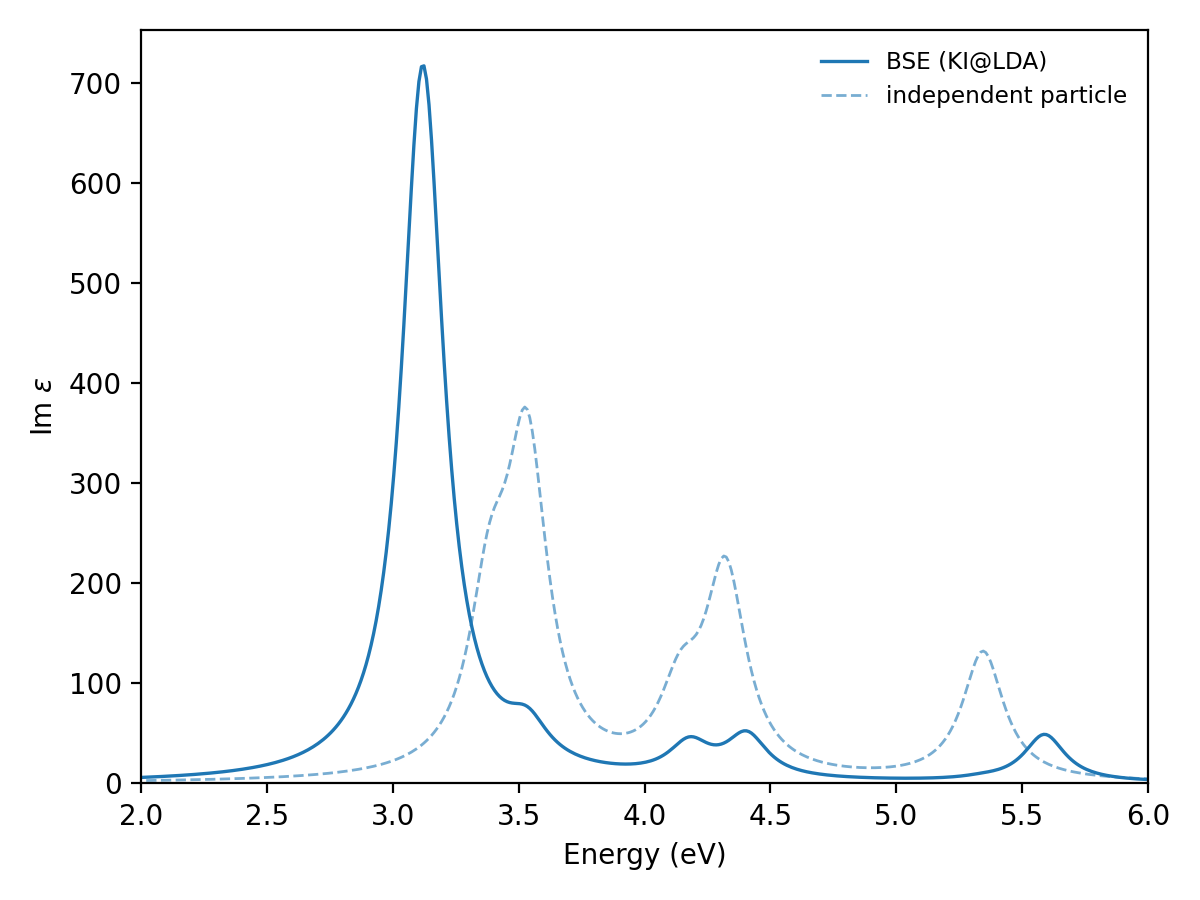
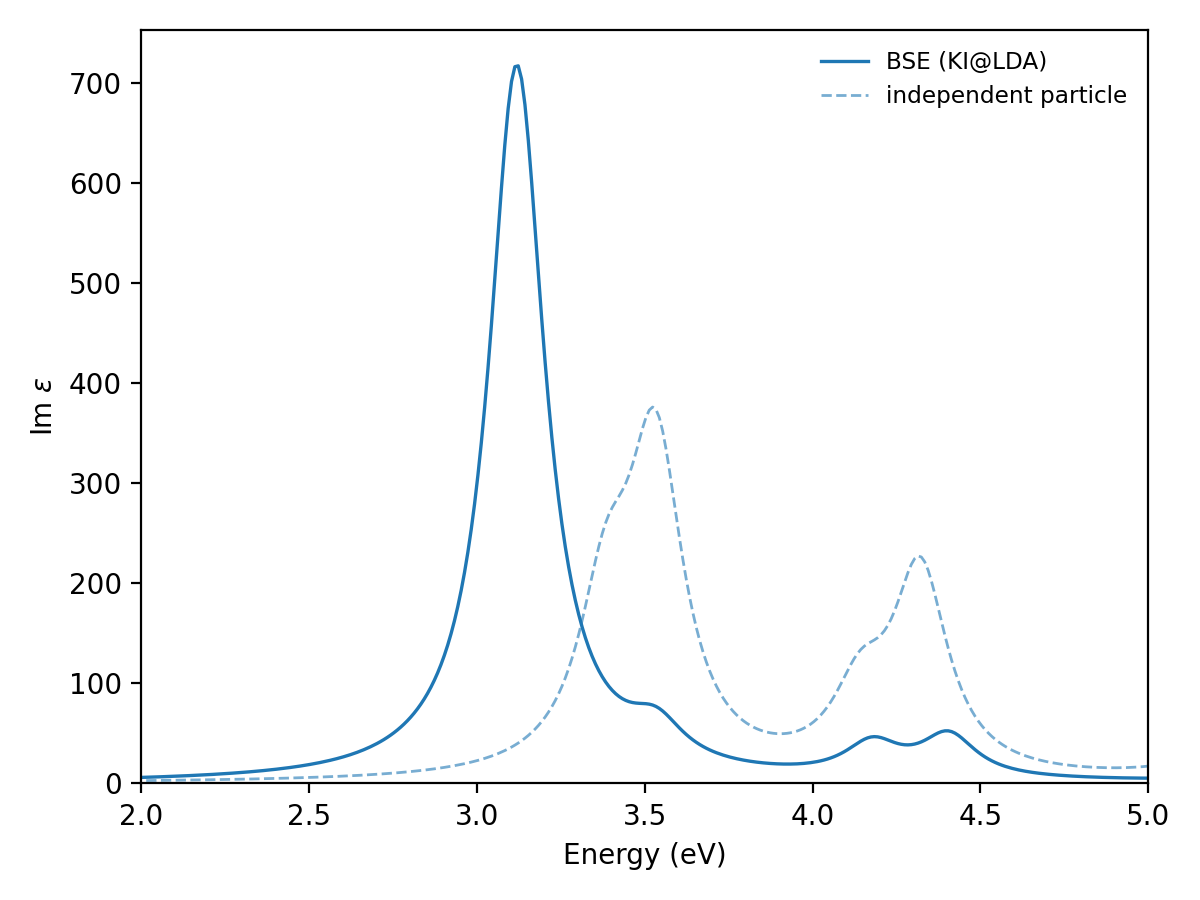
Describe the BSE input on its own terms
The page compared its input against the finite-differences tutorial's
and discussed `workflow.formalism`, both of which a reader of this page
has no reason to know about.

- Walk through the input block by block instead of as a diff.
- Drop the prerequisites section and the `mp_correction` keyword, which
  reaches no step of this run.
- Plot the spectrum from 2 to 5 eV and size the figure with the
  responsive class.

diff --git a/docs/source/tutorials/optical_spectra/silicon_bse/index.rst b/docs/source/tutorials/optical_spectra/silicon_bse/index.rst
@@ -4,16 +4,7 @@
 
 This tutorial computes the optical absorption spectrum of bulk silicon with the
 Bethe-Salpeter equation (BSE), on top of quasiparticle energies from a Koopmans
-calculation, using `yambo <http://www.yambo-code.org/>`_. It assumes you already know
-how a periodic Koopmans calculation is built from Wannier functions, taught in the
-:doc:`finite-differences tutorial <../../band_structures/silicon_finite_differences/index>`.
-
-***************
- Prerequisites
-***************
-
-Have ``p2y`` and ``yambo`` on your ``PATH`` when you run ``koopmans install``, as
-described on the :doc:`installation page <../../../installation>`.
+calculation, using `yambo <http://www.yambo-code.org/>`_.
 
 ****************
  The input file
@@ -25,18 +16,14 @@ it is in full:
 .. literalinclude:: si-bse.yaml
     :language: yaml
 
-Compared with the finite-differences tutorial's ``si.yaml``, the atoms, the k-point grid,
-the cutoff, ``nbnd`` and the Wannier projections are the same. This input changes four
-things:
-
-- ``workflow.task`` is ``bse``.
-- ``workflow.formalism`` is dropped: a ``bse`` calculation evaluates the Koopmans
-  correction by linear response in the primitive cell, so it needs no choice between
-  the two formalisms. The ``alpha_guess``, ``alpha_numsteps`` and ``group_orbitals_tol``
-  keywords of the finite-differences formalism go with it.
-- ``kpoints.path`` and ``kpoints.overrides.wannierize_smooth`` are dropped, since a
-  spectrum has no band path.
-- A ``calculator_parameters.yambo`` block and a ``parallelization`` block are added.
+The ``workflow`` block asks for a KI calculation of the ``atoms`` below, built from
+maximally localized Wannier functions, followed by a BSE spectrum on its eigenvalues.
+``kpoints`` carries only a grid, since a spectrum has no band path. Under
+``calculator_parameters``, ``nbnd`` and the ``wannier90`` entries build two sets of four
+Wannier functions, one spanning the filled bands and one the lowest empty bands; these
+eight bands are the ones that receive a Koopmans correction. The :doc:`linear-response
+tutorial <../../band_structures/silicon_linear_response/index>` walks through these
+settings. New here are the ``yambo`` block and the ``yambo`` entry of ``parallelization``.
 
 The ``yambo`` block sets yambo's own runcard variables under their own names. Six have
 no default:
@@ -73,7 +60,7 @@ electron-hole pairs of the Bethe-Salpeter kernel.
 
     $ koopmans run si-bse.yaml
 
-The progress table walks through the density-functional perturbation theory chain —
+The progress table walks through the Koopmans calculation —
 scf, nscf, a Wannierization per manifold, then wann2kc, screen and ham — followed by a
 fresh yambo chain: an scf and nscf for yambo's own ground state, ``p2y`` to build its
 SAVE directory, a step that turns the kcw.x eigenvalues of the ``ham`` step into yambo's
@@ -110,15 +97,17 @@ KI@LDA, a correction of 0.77 eV.
 
 .. code-block:: console
 
-    $ koopmans plot spectrum si-bse --label "BSE (KI@LDA)" --xlim 2 6 -o spectrum.png
+    $ koopmans plot spectrum si-bse --label "BSE (KI@LDA)" --xlim 2 5 -o spectrum.png
 
 This draws the imaginary part of the dielectric function against energy. The solid curve
 is the BSE spectrum. The dashed curve is the independent-particle spectrum, in which each
 filled-to-empty transition absorbs on its own, computed from the same KI@LDA energies:
 
 .. image:: spectrum.png
+    :class: responsive-fig
     :align: center
-    :width: 80%
+    :alt: The imaginary part of the dielectric function of silicon between 2 and 5 eV;
+        the BSE curve peaks at 3.12 eV, the independent-particle curve at 3.52 eV
 
 .. question:: What does the electron-hole interaction do to the spectrum?
 
